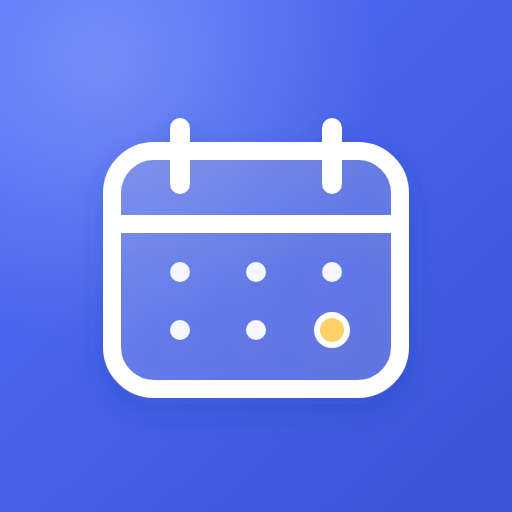
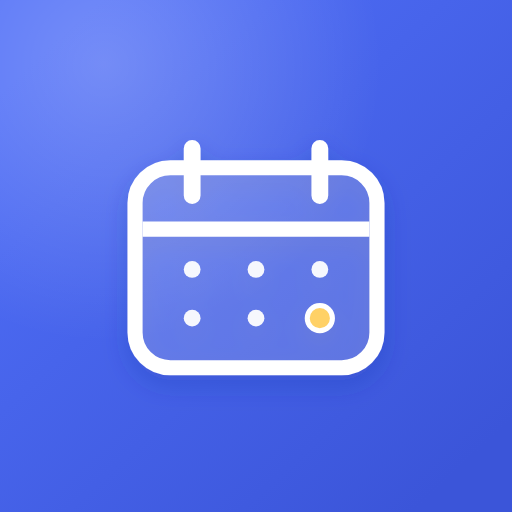
아이콘/매니페스트 network-first 캐시 및 마스커블 안전영역 보정

diff --git a/sw.js b/sw.js
@@ -1,14 +1,7 @@
-const CACHE_NAME = 'plan-calendar-v5';
+const CACHE_NAME = 'plan-calendar-v6';
 const APP_SHELL = [
   './',
-  './index.html',
-  './manifest.webmanifest',
-  './icon.svg',
-  './icon-maskable.svg',
-  './icon-192.png',
-  './icon-512.png',
-  './icon-maskable-192.png',
-  './icon-maskable-512.png'
+  './index.html'
 ];
 
 self.addEventListener('install', event => {
@@ -33,6 +26,26 @@ self.addEventListener('activate', event => {
 
 self.addEventListener('fetch', event => {
   if (event.request.method !== 'GET') return;
+
+  const url = new URL(event.request.url);
+  const isInstallAsset = url.origin === self.location.origin
+    && /\/(?:manifest\.webmanifest|icon(?:-maskable)?(?:-\d+)?\.(?:png|svg))$/.test(url.pathname);
+
+  if (isInstallAsset) {
+    event.respondWith(
+      fetch(event.request)
+        .then(response => {
+          if (!response.ok) throw new Error(`HTTP ${response.status}`);
+          const copy = response.clone();
+          return caches.open(CACHE_NAME)
+            .then(cache => cache.put(event.request, copy))
+            .catch(() => undefined)
+            .then(() => response);
+        })
+        .catch(() => caches.match(event.request).then(cached => cached || Response.error()))
+    );
+    return;
+  }
 
   event.respondWith(
     caches.match(event.request).then(cached => (

diff --git a/index.html b/index.html
@@ -4,7 +4,7 @@
 <meta charset="UTF-8">
 <meta name="viewport" content="width=device-width, initial-scale=1, viewport-fit=cover">
 <link rel="manifest" href="./manifest.webmanifest">
-<link rel="apple-touch-icon" href="./icon-192.png">
+<link rel="apple-touch-icon" href="./icon-192.png?v=2">
 <meta name="theme-color" content="#4f6ef7">
 <meta name="robots" content="noindex, nofollow">
 <script>